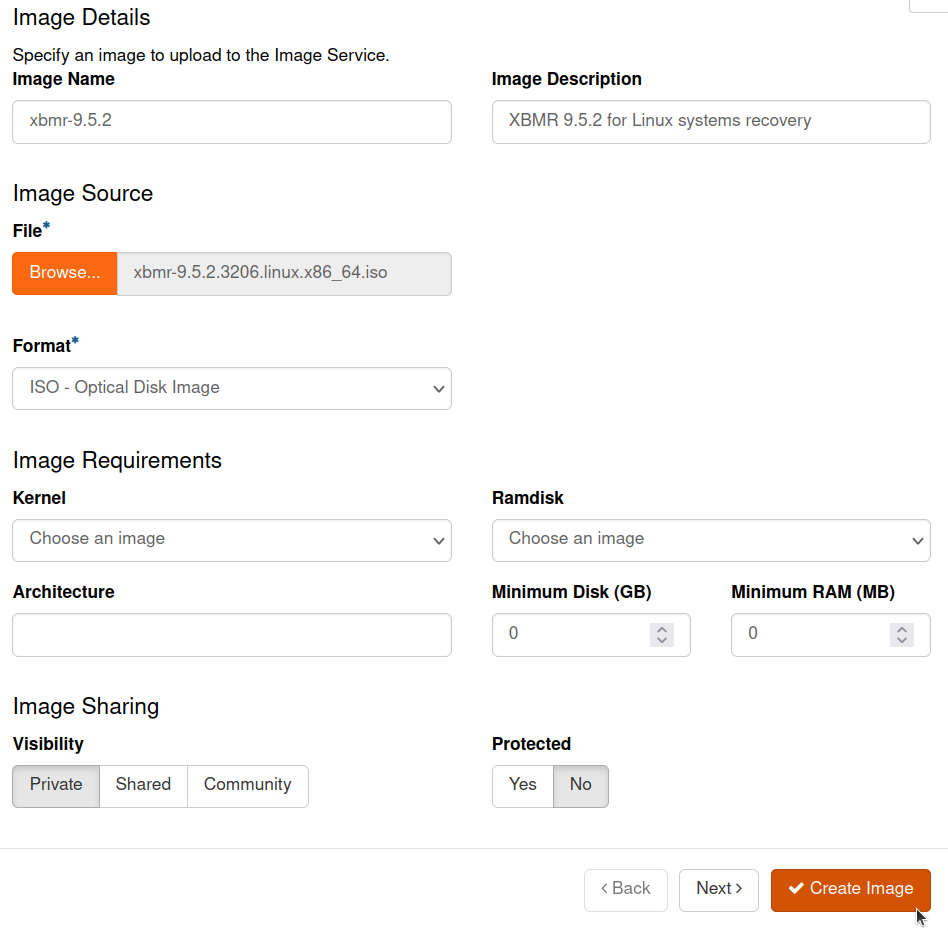
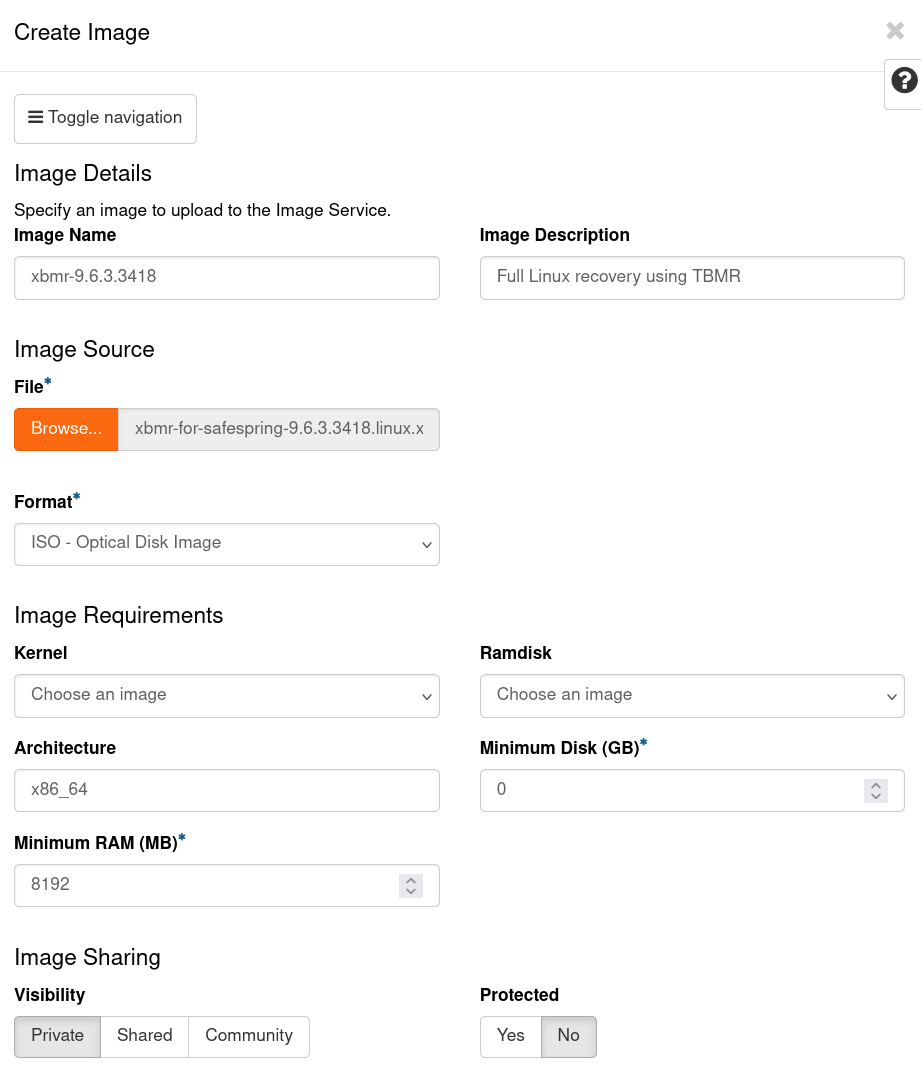
Linux Recovery page fixes.

diff --git a/content/backup/recovery/linux-recovery.md b/content/backup/recovery/linux-recovery.md
@@ -88,8 +88,11 @@ go to Compute -> Images and click on "Create Image."
 Then:
 
 - Specify a descriptive name, such as `xbmr-x.x.x.x`. 
-- Choose the ISO as the image file. 
-- Select Format as ISO.
+- Select the ISO as the image file. 
+- Select Format as `ISO - Optical Disk Image`.
+- Set the architecture to `x86_64`.
+- Set the minimum RAM (MB) to `8192`.
+- Set Protected to No.
 
 ![Create TBMR Image](../images/compute-create-xbmr-image.png)
 
